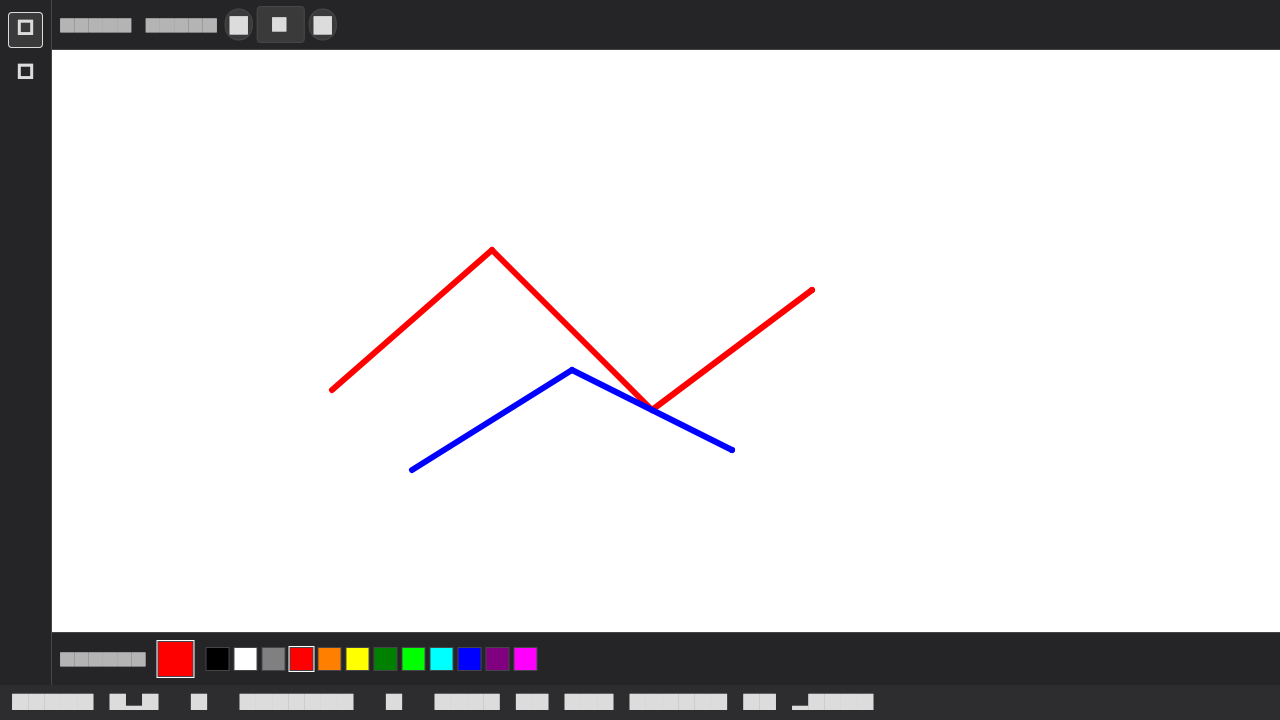
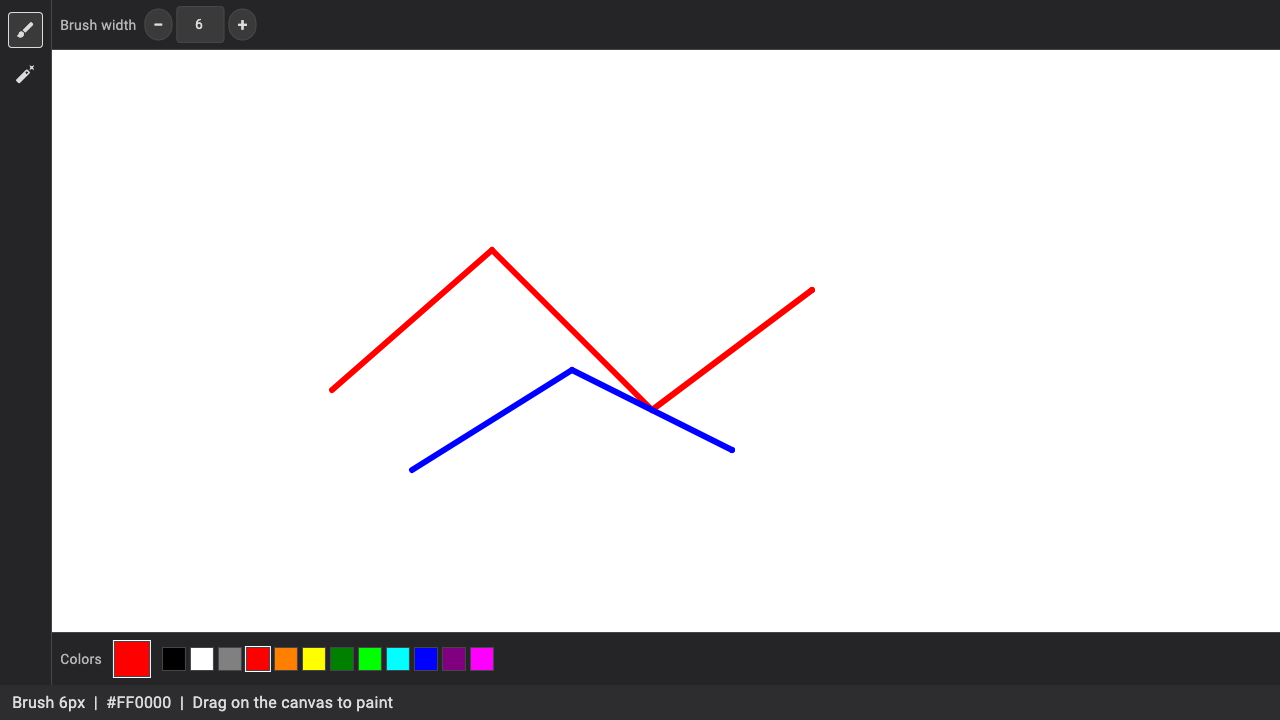
better screenshot

Changed region(s): [[0.0, 0.8861, 0.6875, 1.0], [0.0, 0.0, 0.2812, 0.0611], [0.0, 0.0917, 0.0312, 0.1222]]

diff --git a/test/test_fonts.dart b/test/test_fonts.dart
@@ -1,0 +1,39 @@
+import 'dart:io';
+import 'dart:typed_data';
+
+import 'package:flutter/services.dart';
+import 'package:flutter_test/flutter_test.dart';
+
+Future<ByteData> _loadFontFile(String path) async {
+  final bytes = await File(path).readAsBytes();
+  return ByteData.sublistView(bytes);
+}
+
+Future<String> _flutterSdkRoot() async {
+  final fromEnv = Platform.environment['FLUTTER_ROOT'];
+  if (fromEnv != null && fromEnv.isNotEmpty) {
+    return fromEnv;
+  }
+
+  final result = await Process.run('flutter', ['sdk-path']);
+  if (result.exitCode != 0) {
+    throw StateError('Failed to locate Flutter SDK: ${result.stderr}');
+  }
+  return (result.stdout as String).trim();
+}
+
+Future<void> loadTestFonts() async {
+  TestWidgetsFlutterBinding.ensureInitialized();
+
+  final fontsDir =
+      '${await _flutterSdkRoot()}/bin/cache/artifacts/material_fonts';
+
+  final roboto = FontLoader('Roboto')
+    ..addFont(_loadFontFile('$fontsDir/Roboto-Regular.ttf'))
+    ..addFont(_loadFontFile('$fontsDir/Roboto-Medium.ttf'));
+
+  final icons = FontLoader('MaterialIcons')
+    ..addFont(_loadFontFile('$fontsDir/MaterialIcons-Regular.otf'));
+
+  await Future.wait([roboto.load(), icons.load()]);
+}

diff --git a/test/generate_screenshot_test.dart b/test/generate_screenshot_test.dart
@@ -4,7 +4,13 @@ import 'package:vibepaint/demo/screenshot_demo.dart';
 import 'package:vibepaint/main.dart';
 import 'package:vibepaint/screens/paint_screen.dart';
 
+import 'test_fonts.dart';
+
 void main() {
+  setUpAll(() async {
+    await loadTestFonts();
+  });
+
   testWidgets('generate README screenshot', (tester) async {
     const size = Size(1280, 720);
     await tester.binding.setSurfaceSize(size);

diff --git a/.cursor/skills/capture-screenshot/SKILL.md b/.cursor/skills/capture-screenshot/SKILL.md
@@ -48,6 +48,6 @@ Edit `lib/demo/screenshot_demo.dart` to change sample strokes. Adjust `initialCo
 
 ## Troubleshooting
 
-- **Blank or partial image**: ensure `await tester.pump()` runs before the golden capture.
+- **Gray boxes instead of text/icons**: widget tests need fonts loaded — see `test/test_fonts.dart` and `setUpAll` in the screenshot test.
 - **Missing file**: run from repo root so the relative `docs/screenshot.png` path resolves correctly.
 - **Layout changed**: update stroke coordinates in `screenshot_demo.dart` if the left toolbar or canvas size shifted.